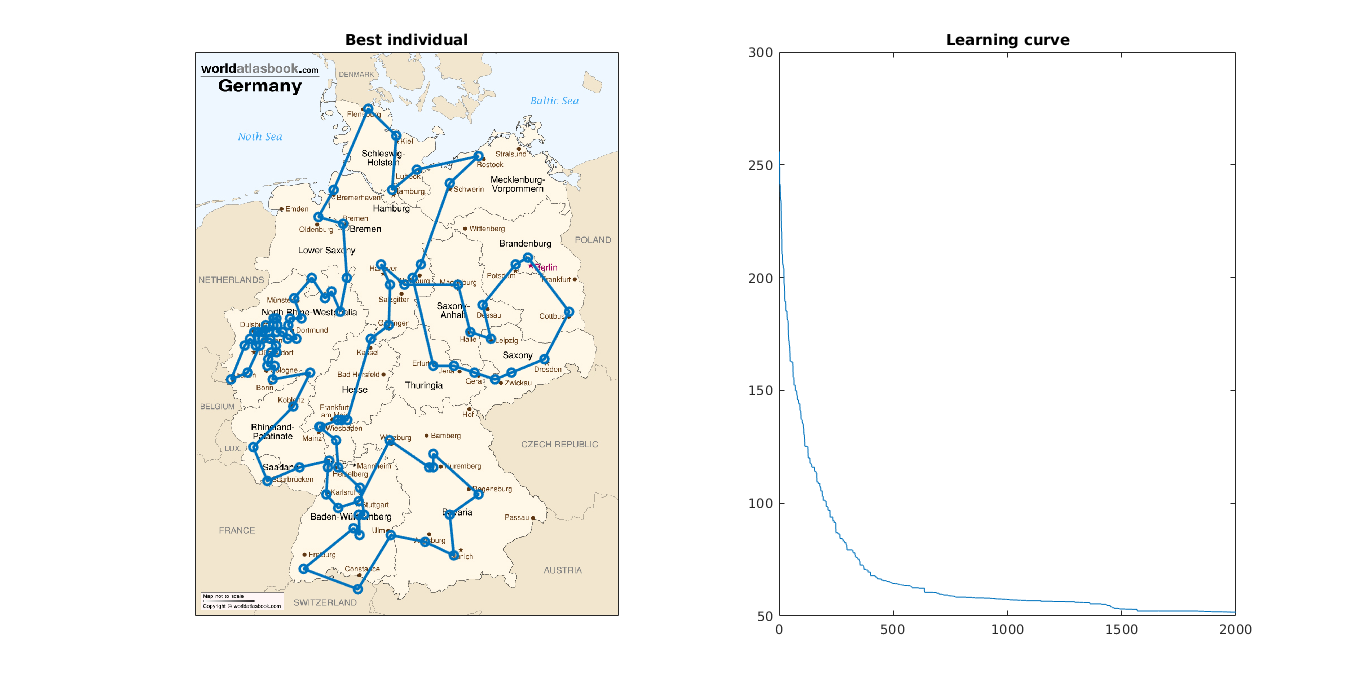
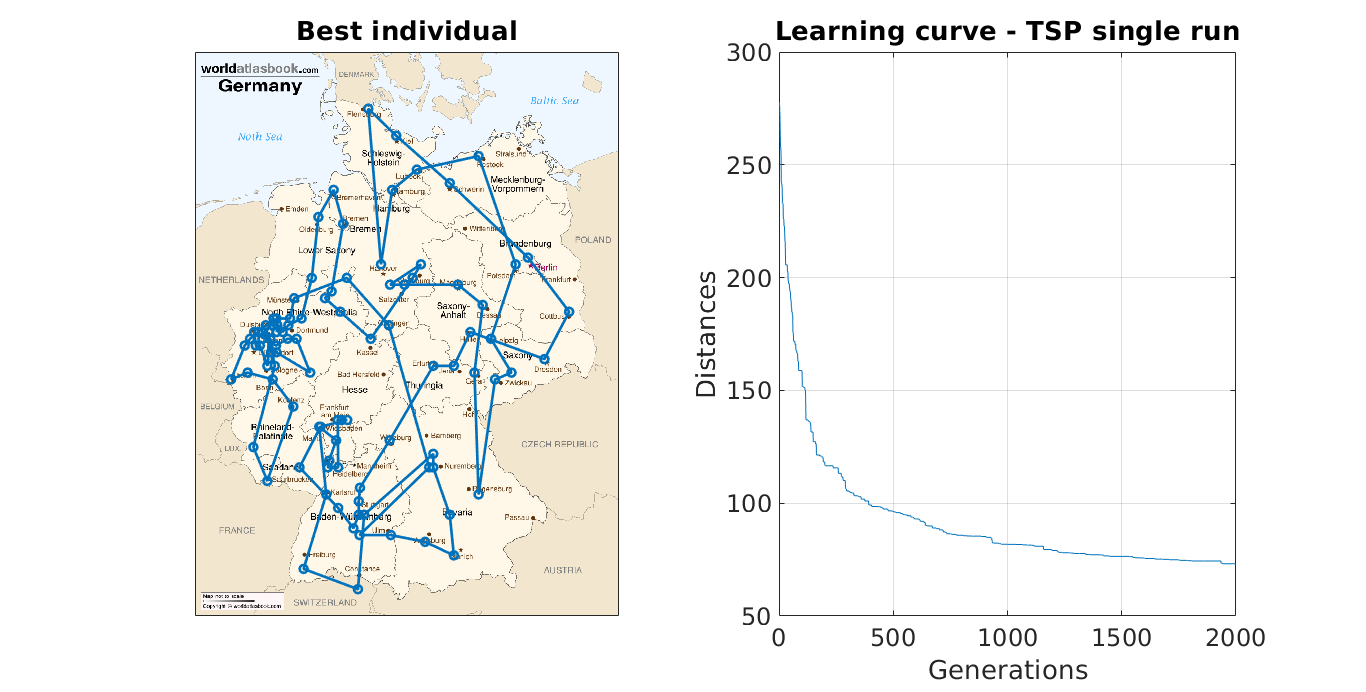
[2 Assignment] Update of map figure

diff --git a/2_assignment/code/tsp_experiment.m b/2_assignment/code/tsp_experiment.m
@@ -1,6 +1,6 @@
 %% Run the algorithm once
 clear;
-output = tsp(0.9, 0.01, 2000, true); % Run with hyperparameters
+output = tsp(0.99, 0.01, 2000, true); % Run with hyperparameters
 
 %% Mutation test -> Run experiment multiple times
 clear; 
